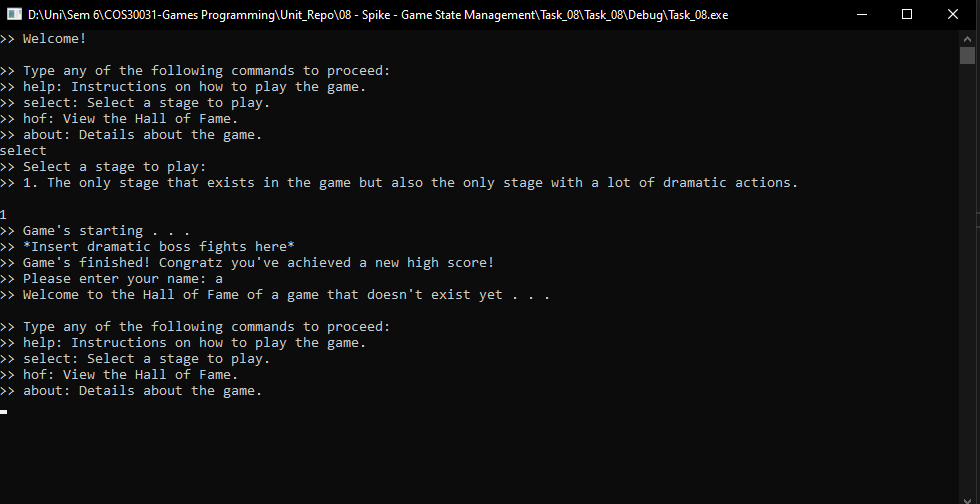
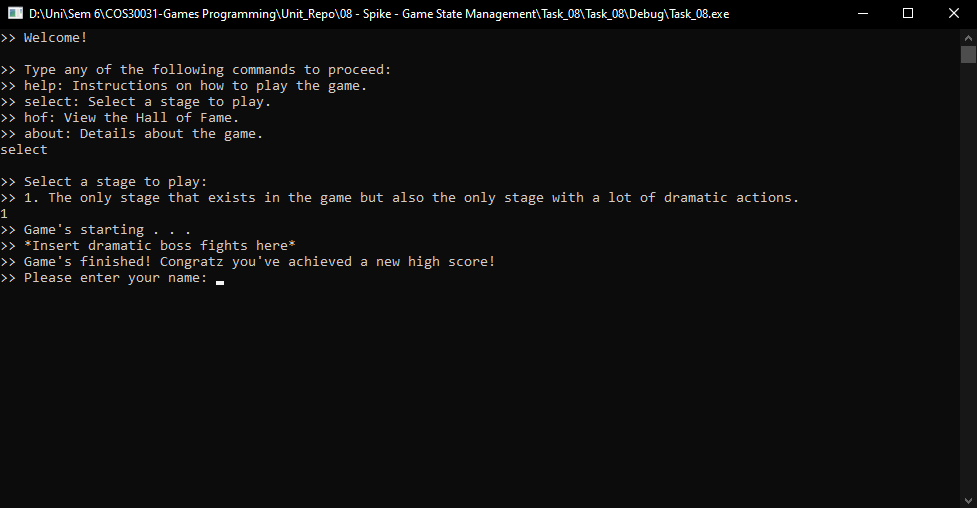
UPDATE #8.16.1: Messing with spacing

diff --git a/08 - Spike - Game State Management/Task_08/Task_08/GameStateManagement.cpp b/08 - Spike - Game State Management/Task_08/Task_08/GameStateManagement.cpp
@@ -46,8 +46,9 @@ public:
 		}
 	}
 	void render() override {
+		cout << endl;
 		cout << ">> Select a stage to play:" << endl;
-		cout << ">> 1. The only stage that exists in the game but also the only stage with a lot of dramatic actions.\n" << endl;
+		cout << ">> 1. The only stage that exists in the game but also the only stage with a lot of dramatic actions." << endl;
 	}
 };
 
